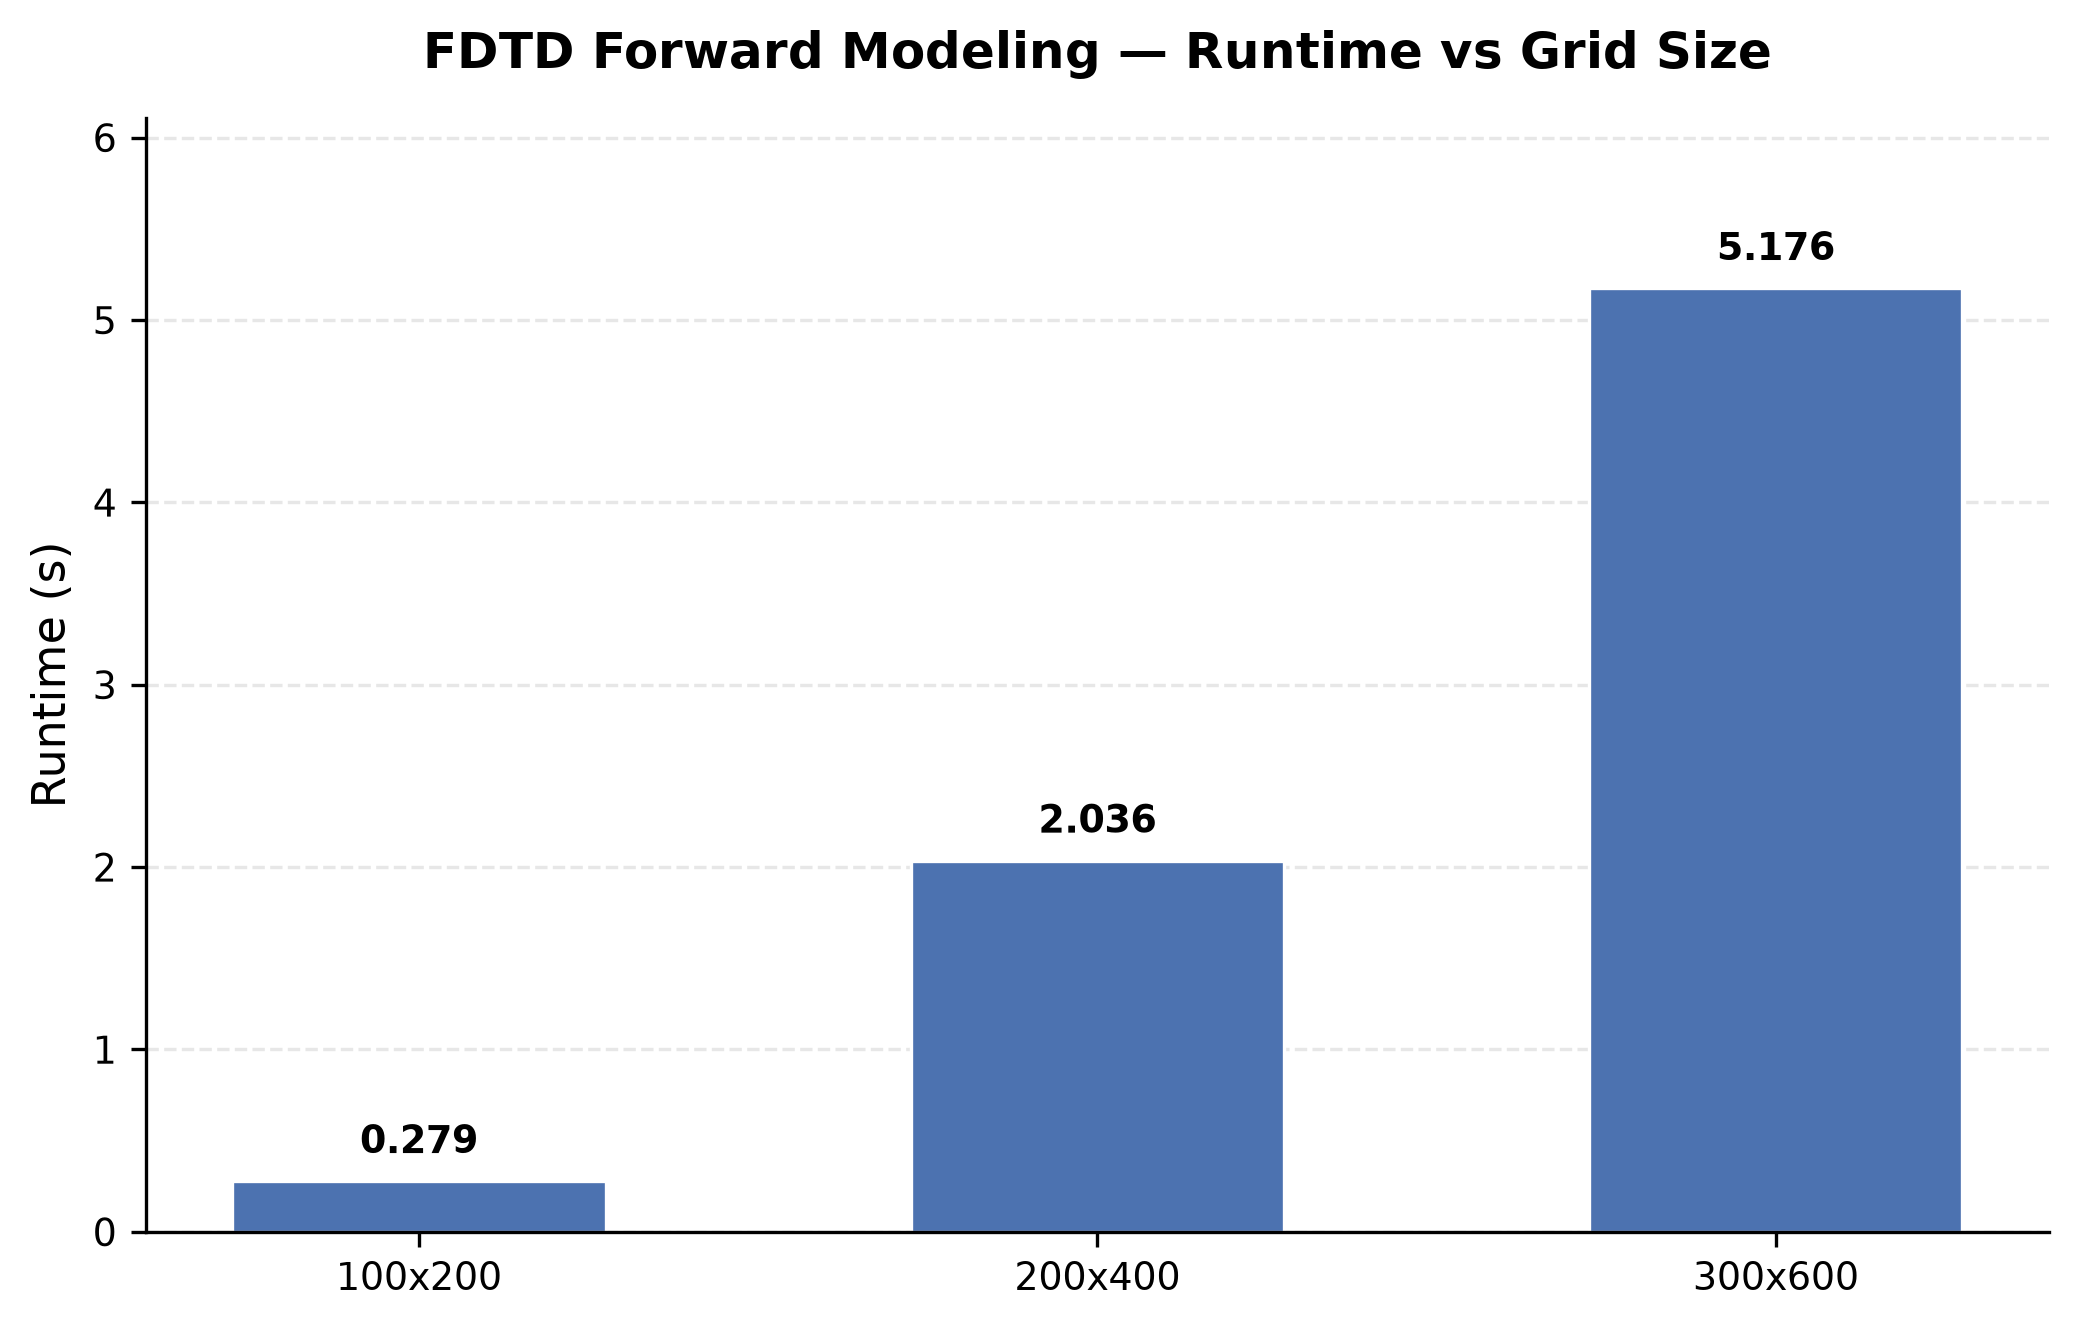
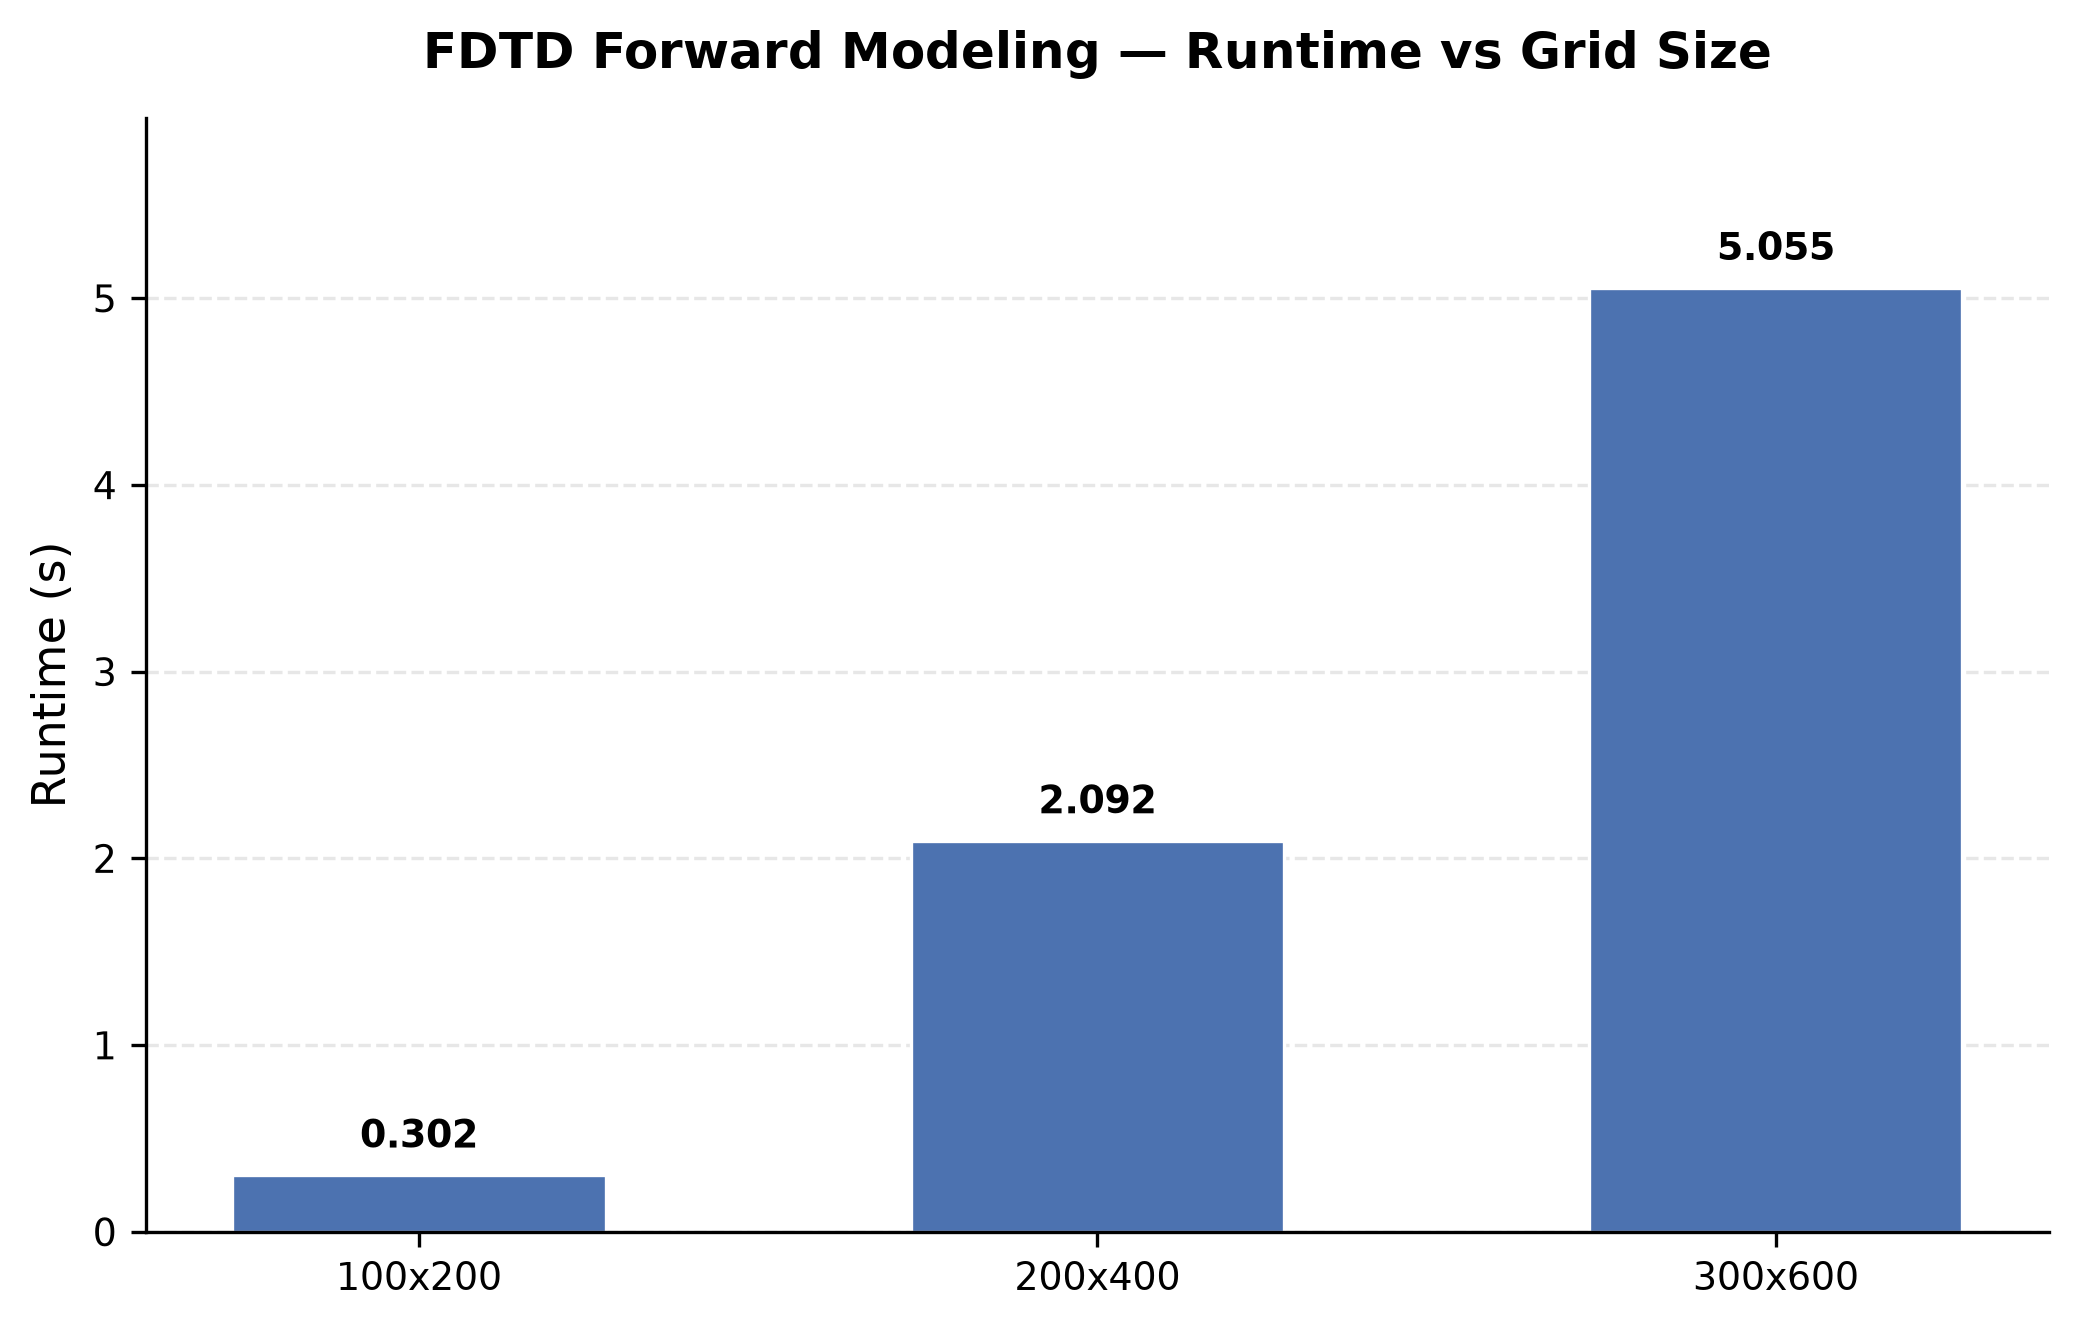
fix: correct deepwave tensor shapes, use pressure_0 for wavefield snapshots
deepwave API fixes:
- Remove batch dimension from velocity model (vel shape: (nz, nx), not (1, nz, nx))
- Source/receiver locations use (n_shots, n_src, dim) format without extra dims
- Wavefield snapshots via get_wavefield('pressure_0') in forward_callback
- Shot record from out[7][0].T shape (nt, n_rec)

All wavefield data now uses pseudo-spectral method (spectral accuracy)
for snapshots, deepwave only for shot records.
40/40 tests passing.

diff --git a/examples/scripts/generate_data.py b/examples/scripts/generate_data.py
@@ -187,15 +187,15 @@ def deepwave_forward(
     """
     deepwave 声波正演，返回炮记录和波场快照。
 
-    通过 forward_callback 在指定时间步保存波场快照。
+    通过 forward_callback 在指定时间步保存压力场快照。
     """
     import torch
     import deepwave as dw
 
     nz, nx = vel.shape
-    vel_t = torch.from_numpy(vel.copy()).unsqueeze(0)
-    rho_t = torch.ones(1, nz, nx) * 1000.0
-    model = dw.Acoustic(vel_t, rho_t, grid_spacing=dx)
+    vel_t = torch.from_numpy(vel.copy())
+    rho_t = torch.ones(nz, nx) * 1000.0
+    prop = dw.Acoustic(vel_t, rho_t, grid_spacing=dx)
 
     src_amp = dw.wavelets.ricker(f0, nt, dt, 1.5 / f0).reshape(1, 1, -1)
     src_loc = torch.tensor([[[src_z, src_x]]])
@@ -206,17 +206,14 @@ def deepwave_forward(
     snapshots: dict[int, NDArray] = {}
 
     def callback(state):
-        it = state.step
-        if it in snap_set:
-            wf = state.get_wavefield()
-            if isinstance(wf, torch.Tensor):
-                wf_np = wf.detach().cpu().numpy()
-                if wf_np.ndim == 3:
-                    snapshots[it] = wf_np[0, pml:pml+nz, pml:pml+nx].copy()
-                elif wf_np.ndim == 2:
-                    snapshots[it] = wf_np[pml:pml+nz, pml:pml+nx].copy()
+        step = state.step
+        if step in snap_set:
+            wf = state.get_wavefield("pressure_0")
+            if wf.numel() > 0:
+                snap = wf[0].detach().cpu().numpy() if wf.ndim == 3 else wf.detach().cpu().numpy()
+                snapshots[step] = snap.copy()
 
-    out = model(
+    out = prop(
         dt=dt,
         source_amplitudes_p=src_amp,
         source_locations_p=src_loc,
@@ -229,24 +226,6 @@ def deepwave_forward(
     # 炮记录: out[7] shape (1, n_rec, nt) → (nt, n_rec)
     shot = out[7][0].numpy().T.astype(np.float32)
     return shot, snapshots
-
-
-def deepwave_wavefield_at(
-    vel: NDArray,
-    src_x: int,
-    src_z: int,
-    target_it: int,
-    dx: float = DX,
-    dt: float = DT,
-    nt: int = NT,
-    f0: float = F0,
-) -> NDArray:
-    """运行 deepwave 并返回指定时间步的波场快照 (nz, nx)。"""
-    _, snaps = deepwave_forward(
-        vel, src_x, src_z, dx=dx, dt=dt, nt=nt, f0=f0,
-        snap_its=(target_it,),
-    )
-    return snaps[target_it]
 
 
 # ─── 辅助 ────────────────────────────────────────────────────